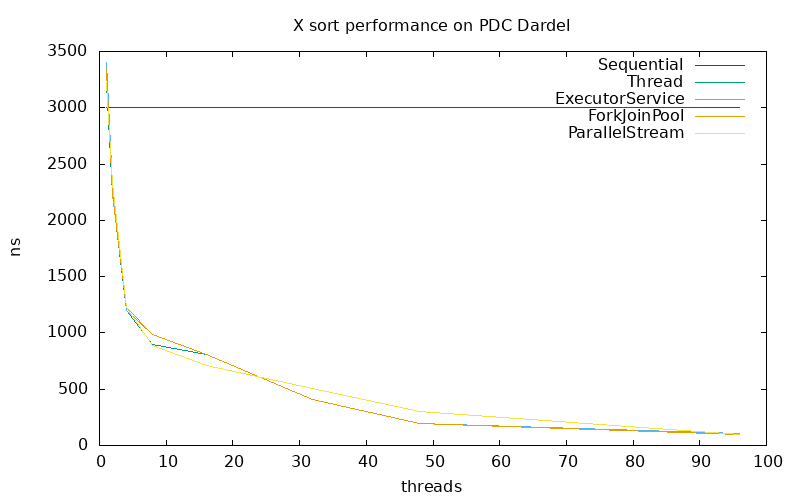
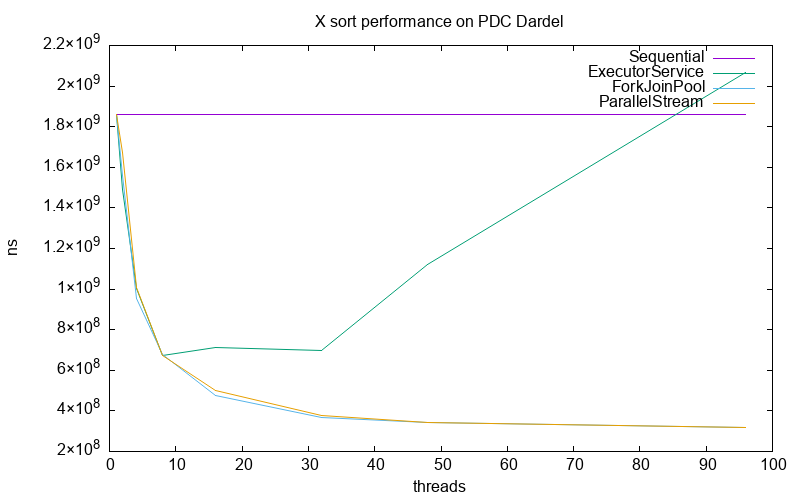
update

diff --git a/src/ExecutorServiceSort.java b/src/ExecutorServiceSort.java
@@ -23,6 +23,7 @@ public class ExecutorServiceSort implements Sorter {
         }
 
         executor.shutdown();
+
         try {
             // Wait for all tasks to complete
             for (Future<?> future : futures) {
@@ -34,10 +35,50 @@ public class ExecutorServiceSort implements Sorter {
             System.err.println("Thread interrupted or execution error: " + e.getMessage());
         }
 
-        // Merge the sorted subarrays
-        for (int i = 1; i < indexes.length; i++) {
-            new SequentialSort().merge(arr, indexes[0][0], indexes[i - 1][1], indexes[i][1]);
+        ExecutorService executor1 = Executors.newFixedThreadPool(threads);
+
+        futures = new ArrayList<>();
+        
+        int numSubarrays = indexes.length;
+        while (numSubarrays > 1) {
+            int newNumSubarrays = (numSubarrays + 1) / 2;
+
+            for (int i = 0; i < newNumSubarrays; i++) {
+                if (2 * i + 1 < numSubarrays) {
+                    int l = indexes[2 * i][0];
+                    int m = indexes[2 * i][1];
+                    int r = indexes[2 * i + 1][1];
+
+                    futures.add(executor1.submit(() -> {
+                        new SequentialSort().merge(arr, l, m, r);
+                    }));
+
+                    indexes[i][1] = r;
+                } else {
+                    indexes[i] = indexes[2 * i];
+                }
+            }
+
+            
+            // Wait for all merges in this step to complete
+            for (Future<?> future : futures) {
+                try {
+                    future.get();
+                } catch (InterruptedException | ExecutionException e) {
+                    executor.shutdownNow();
+                    Thread.currentThread().interrupt();
+                    System.err.println("Thread interrupted or execution error: " + e.getMessage());
+                }
+            }
+
+                numSubarrays = newNumSubarrays;
+                futures.clear();
         }
+        executor1.shutdown();
+        // Merge the sorted subarrays
+        /*for (int i = 1; i < indexes.length; i++) {
+            new SequentialSort().merge(arr, indexes[0][0], indexes[i - 1][1], indexes[i][1]);
+        }*/
     }
 
     public int getThreads() {
